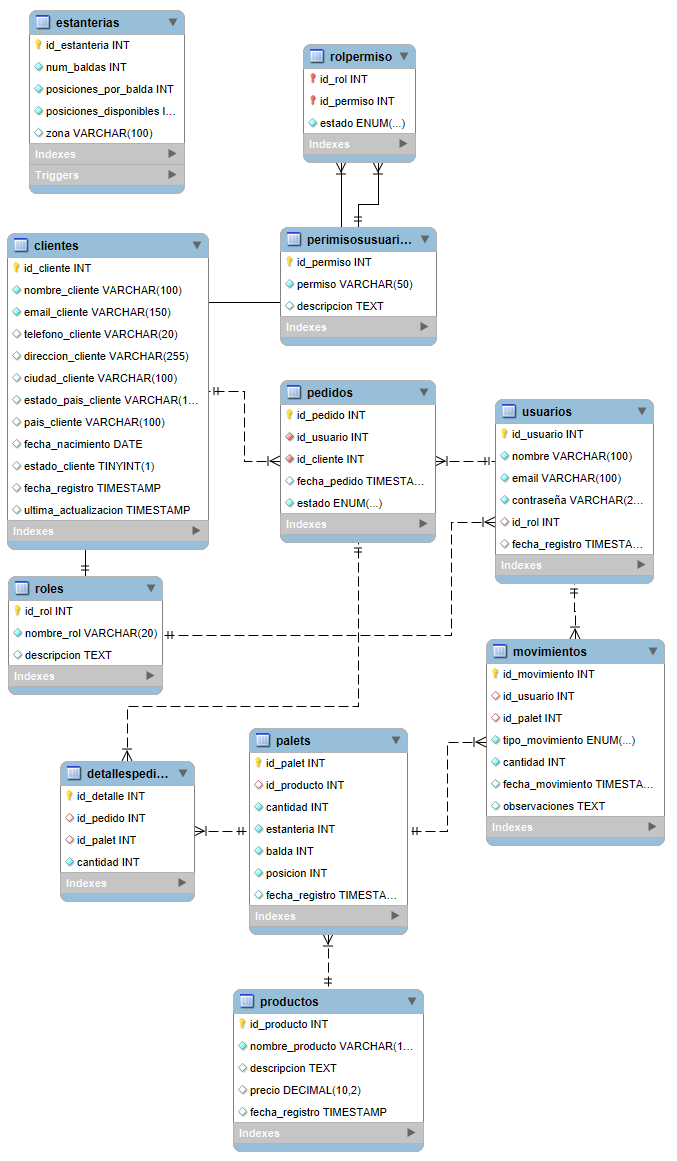
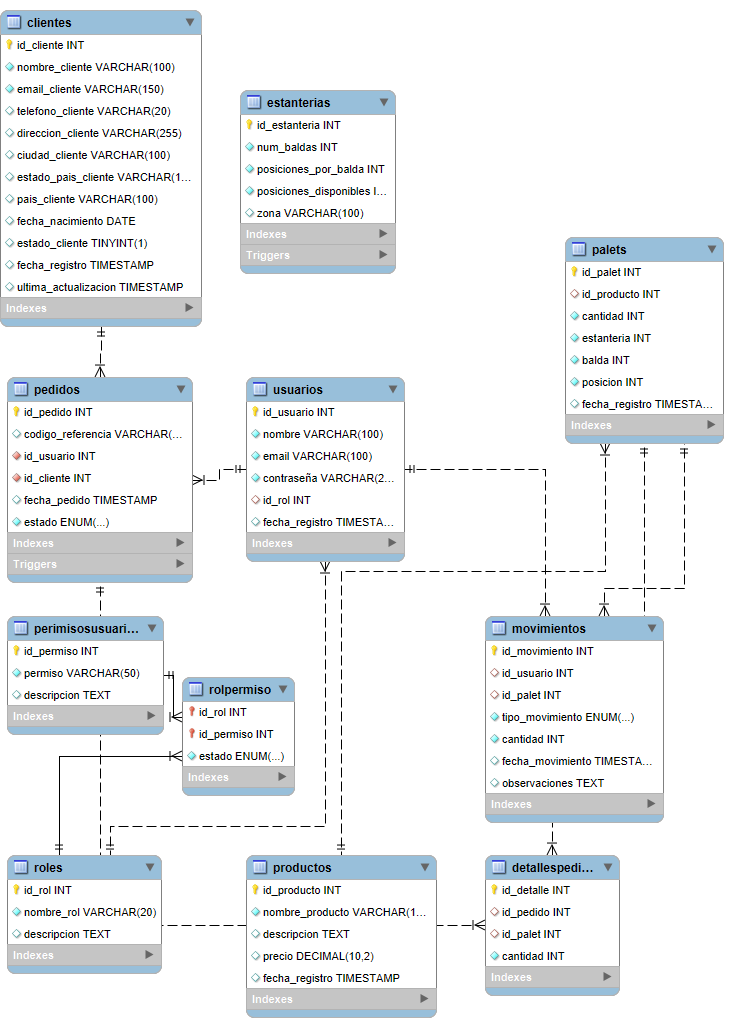
documentacion

diff --git a/TFG-almacen/src/main/java/uvigo/tfgalmacen/database/database-Documentation/databaseStructure.md b/TFG-almacen/src/main/java/uvigo/tfgalmacen/database/database-Documentation/databaseStructure.md
@@ -23,7 +23,7 @@ El DAO es un patrón de diseño estructural que se utiliza en el desarrollo de s
 Interfaz DAO: Define los métodos de acceso a los datos (por ejemplo, `crear()`, `leer()`, `actualizar()`, `eliminar()`).
 Implementación del DAO: Esta clase implementa los métodos definidos en la interfaz DAO y contiene la lógica de acceso a los datos (como consultas SQL o llamadas a una API).
 
-#### Ejemplo
+#### 📚 EJEMPLO:
 
 Supongamos que tienes una base de datos con una tabla `Usuario`. Podrías tener una interfaz `UsuarioDAO` con métodos como:
 
@@ -76,7 +76,8 @@ private static final String URL = "jdbc:mysql://localhost:3306/tfg_almacenDB";
 ```
 
 - **Descripción**: Dirección de la base de datos en MySQL.
-- **Ejemplo**: Cambiar `localhost` o `3306` si la base de datos está en un host remoto o en un puerto diferente.
+
+⚠ **Cambiar** `localhost` o `3306` si la base de datos está en un host remoto o en un puerto diferente.
 
 ### 2.2 Usuario
 
@@ -115,10 +116,18 @@ public static Connection connect() throws SQLException
   2. Establece la conexión con la base de datos utilizando `DriverManager.getConnection`.
   3. Imprime un mensaje de éxito o lanza excepciones en caso de error.
 
-#### Ejemplo de Uso
+#### 📚 EJEMPLO:
 
 ```java
-Connection conn = DatabaseConnection.connect();
+// Establecemos una conexión a la base de datos.
+
+Connection connection_database = DatabaseConnection.connect();
+
+// Ahora tenemos un objeto llamado 'connection_database' con el cual podemos
+// interactuar con la base de datos
+
+// Crear un objeto Statement para ejecutar consultas SQL
+Statement statement = connection_database.createStatement();
 ```
 
 ---
@@ -140,7 +149,7 @@ public static void close(Connection connection)
   2. Cierra la conexión utilizando el método `close()` del objeto `Connection`.
   3. Imprime un mensaje indicando el cierre exitoso o un mensaje de error en caso contrario.
 
-#### Ejemplo de Uso
+#### 📚 EJEMPLO:
 
 ```java
 /* ejemplo
@@ -259,6 +268,8 @@ public static void createUser(Connection connection, String nombre, String email
 - Imprime un mensaje de éxito ("Usuario creado exitosamente.") a la salida estándar si el usuario se crea correctamente.
 - Lanza una excepción `SQLException` si ocurre un error durante la operación de la base de datos.
 
+#### 📚 EJEMPLO:
+
 ```java
 // Ejemplo: Dada la conexion a la base de datos 'connection' creamos un nuevo usuario donde
 // nombre = "Juan Pérez"; email = "juan@example.com"; contraseña = "password123", id_rol = 1 (sysAdmin)
@@ -284,6 +295,8 @@ public static void readUsers(Connection connection)
 - Retorno: No retorna nada (void).
 - Imprime una cadena formateada que contiene información del usuario (ID, nombre, email, ID del rol y fecha de registro) por cada usuario encontrado en la base de datos.
 - Lanza una excepción `SQLException` si ocurre un error durante la operación de la base de datos.
+
+#### 📚 EJEMPLO:
 
 ```java
 // Ejemplo: Dada la conexion a la base de datos 'connection' leemos todos los usuarios de la base de datos
@@ -315,6 +328,8 @@ public static void updateUser(Connection connection, int id_usuario, String nomb
 - Imprime un mensaje de éxito ("Usuario actualizado exitosamente.") a la salida estándar si el usuario se actualiza correctamente.
 - Lanza una excepción `SQLException` si ocurre un error durante la operación de la base de datos.
 
+#### 📚 EJEMPLO:
+
 ```java
 // Ejemplo: Dada la conexion a la base de datos 'connection' actualizamos un usuario de la base de datos donde
 // id_usuario = 1, nombre = "Juan Pérez", email = "juan.perez@example.com", contraseña = "newpassword123", id_rol = 2
@@ -341,6 +356,8 @@ public static void deleteUser(Connection connection, int id_usuario)
 - Retorno: No retorna nada (void).
 - Imprime un mensaje de éxito ("Usuario eliminado exitosamente.") a la salida estándar si el usuario se elimina correctamente.
 - Lanza una excepción `SQLException` si ocurre un error durante la operación de la base de datos.
+
+#### 📚 EJEMPLO:
 
 ```java
 // Ejemplo: Dada la conexion a la base de datos 'connection' actualizamos un usuario de la base de datos donde
@@ -381,6 +398,8 @@ public static void createProducto(Connection connection, String nombre, String d
 - Imprime un mensaje de éxito ("Producto creado exitosamente.") a la salida estándar si el producto se crea correctamente.
 - Lanza una excepción `SQLException` si ocurre un error durante la operación de la base de datos.
 
+#### 📚 EJEMPLO:
+
 ```java
 // Ejemplo: Dada la conexion a la base de datos 'connection' creamos un nuevo producto en la base de datos donde
 // nombre = "Laptop", descripcion = "Laptop de 15 pulgadas", precio = 1200.00
@@ -406,6 +425,8 @@ public static void readProductos(Connection connection)
 - Retorno: No retorna nada (void).
 - Imprime una cadena formateada que contiene información del producto (ID, nombre, descripción y precio) por cada producto encontrado en la base de datos.
 - Lanza una excepción `SQLException` si ocurre un error durante la operación de la base de datos.
+
+#### 📚 EJEMPLO:
 
 ```java
 // Ejemplo: Dada la conexion a la base de datos 'connection' leemos todos los productos de la base de datos
@@ -437,6 +458,8 @@ public static void updateProducto(Connection connection, int id_producto, String
 - Imprime un mensaje de éxito ("Producto actualizado exitosamente.") a la salida estándar si el producto se actualiza correctamente.
 - Lanza una excepción `SQLException` si ocurre un error durante la operación de la base de datos.
 
+#### 📚 EJEMPLO:
+
 ```java
 // Ejemplo: Dada la conexion a la base de datos 'connection' actualizamos un producto de la base de datos donde
 // id_producto = 1, nombre = "Laptop", descripcion = "Laptop de 17 pulgadas", precio = 1300.00
@@ -463,6 +486,8 @@ public static void deleteProducto(Connection connection, int id_producto)
 - Retorno: No retorna nada (void).
 - Imprime un mensaje de éxito ("Producto eliminado exitosamente.") a la salida estándar si el producto se elimina correctamente.
 - Lanza una excepción `SQLException` si ocurre un error durante la operación de la base de datos.
+
+#### 📚 EJEMPLO:
 
 ```java
 // Ejemplo: Dada la conexion a la base de datos 'connection' borramos un producto de la base de datos donde
@@ -502,6 +527,8 @@ public static void createPedido(Connection connection, int id_usuario, String es
 - Imprime un mensaje de éxito ("Pedido creado exitosamente.") a la salida estándar si el pedido se crea correctamente.
 - Lanza una excepción `SQLException` si ocurre un error durante la operación de la base de datos.
 
+#### 📚 EJEMPLO:
+
 ```java
 // Ejemplo: Dada la conexion a la base de datos 'connection' creamos un nuevo pedido en la base de datos donde
 // id_usuario = 1, estado = "Pendiente"
@@ -527,6 +554,8 @@ public static void readPedidos(Connection connection)
 - Retorno: No retorna nada (void).
 - Imprime una cadena formateada que contiene información del pedido (ID, ID del usuario, estado) por cada pedido encontrado en la base de datos.
 - Lanza una excepción `SQLException` si ocurre un error durante la operación de la base de datos.
+
+#### 📚 EJEMPLO:
 
 ```java
 // Ejemplo: Dada la conexion a la base de datos 'connection' leemos todos los pedidos de la base de datos
@@ -567,6 +596,8 @@ public static void createPalet(Connection connection, int id_producto, int canti
 - Imprime un mensaje de éxito ("Palet creado exitosamente.") a la salida estándar si el palet se crea correctamente.
 - Lanza una excepción `SQLException` si ocurre un error durante la operación de la base de datos.
 
+#### 📚 EJEMPLO:
+
 ```java
 // Ejemplo: Dada la conexion a la base de datos 'connection' creamos un palet en la base de datos donde
 // id_producto = 1, cantidad = 100, ubicacion = "A1"
@@ -592,6 +623,8 @@ public static void readPalets(Connection connection)
 - Retorno: No retorna nada (void).
 - Imprime una cadena formateada que contiene información del palet (ID, ID del producto, cantidad, ubicación) por cada palet encontrado en la base de datos.
 - Lanza una excepción `SQLException` si ocurre un error durante la operación de la base de datos.
+
+#### 📚 EJEMPLO:
 
 ```java
 // Ejemplo: Dada la conexion a la base de datos 'connection' leemos todos los palet de la base de datos
@@ -623,6 +656,8 @@ public static void updatePalet(Connection connection, int id_palet, int id_produ
 - Imprime un mensaje de éxito ("Palet actualizado exitosamente.") a la salida estándar si el palet se actualiza correctamente.
 - Lanza una excepción `SQLException` si ocurre un error durante la operación de la base de datos.
 
+#### 📚 EJEMPLO:
+
 ```java
 // Ejemplo: Dada la conexion a la base de datos 'connection' actualizamos un palet de la base de datos donde
 // id_palet = 1, id_producto = 1, cantidad = 120, ubicacion = "A2"
@@ -649,6 +684,8 @@ public static void deletePalet(Connection connection, int id_palet)
 - Retorno: No retorna nada (void).
 - Imprime un mensaje de éxito ("Palet eliminado exitosamente.") a la salida estándar si el palet se elimina correctamente.
 - Lanza una excepción `SQLException` si ocurre un error durante la operación de la base de datos.
+
+#### 📚 EJEMPLO:
 
 ```java
 // Ejemplo: Dada la conexion a la base de datos 'connection' borramos un palet de la base de datos donde
@@ -691,6 +728,8 @@ public static void createMovimiento(Connection connection, int id_usuario, int i
 - Imprime un mensaje de éxito ("Movimiento creado exitosamente.") a la salida estándar si el movimiento se crea correctamente.
 - Lanza una excepción `SQLException` si ocurre un error durante la operación de la base de datos.
 
+#### 📚 EJEMPLO:
+
 ```java
 // Ejemplo: Dada la conexion a la base de datos 'connection' un nuevo movimiento en la base de datos donde
 // id_usuario = 1, id_palet = 1, tipo_movimiento = "Entrada", cantidad = 50, observaciones = "Movimiento inicial de stock"
@@ -716,6 +755,8 @@ public static void readMovimientos(Connection connection)
 - Retorno: No retorna nada (void).
 - Imprime una cadena formateada que contiene información del movimiento (ID, ID de usuario, ID de palet, tipo de movimiento, cantidad, observaciones) por cada movimiento encontrado en la base de datos.
 - Lanza una excepción `SQLException` si ocurre un error durante la operación de la base de datos.
+
+#### 📚 EJEMPLO:
 
 ```java
 // Ejemplo: Dada la conexion a la base de datos 'connection' leemos todos los movimientos de la base de datos
@@ -755,6 +796,8 @@ public static void createDetallePedido(Connection connection, int id_pedido, int
 - Retorno: No retorna nada (void).
 - Imprime un mensaje de éxito ("Detalle de pedido creado exitosamente.") a la salida estándar si el detalle de pedido se crea correctamente.
 - Lanza una excepción `SQLException` si ocurre un error durante la operación de la base de datos.
+
+#### 📚 EJEMPLO:
 
 ```java
 // Ejemplo: Dada la conexion a la base de datos 'connection' creamos un nuevo DetallePedido en la base de datos donde

diff --git a/Memoria-Documentacion-del-proyecto/Como-funcionan-los-pedidos.md b/Memoria-Documentacion-del-proyecto/Como-funcionan-los-pedidos.md
@@ -1,6 +1,6 @@
 # ¿Cómo funciona el sistema de pedidos?
 
-Cada pedido tiene asociado el nombre del cliente que realiza el pedido, un número de referencia que identifica el pedido, asi como el usuasrio que crea el pedidio (este usuario puede ser tanto un empleado que tenga el rol adecuado como el propio cliente)
+Cada pedido tiene asociado el **nombre del cliente** que realiza el pedido, un **número de referencia** que identifica el pedido, asi como el **usuario que crea el pedidio**
 
 los pedidios los crea un cliente y estos llegan al departamento de ventas y pedidos. Este departamento es quien pasas el pedido al sistema de gestión del almacen
 
@@ -10,7 +10,7 @@ Este documento describe el flujo de un pedido desde su inicio hasta su finalizac
 
 ### 1. **Inicio del Pedido: Petición de nuevo pedido**
 
-El proceso comienza cuando un usuario decide insertar un pedido en el sistema.
+El proceso comienza cuando un usuario decide insertar un pedido en el sistema. En el departamento de 'Ventas y Pedidos' los administrativos (rol de 'Administración') generan el pedido
 
 ### 2. **¿Cliente Registrado?**
 
@@ -22,7 +22,7 @@ Si el cliente está registrado, puede proceder a seleccionar los productos.
 
 #### 2.2. **No: Registrar Cliente**
 
-Si el cliente no está registrado, se realiza el proceso automático de registro del cliente
+Si el cliente no está registrado, se realiza el proceso de registro del cliente
 
 ### 3. **Generar Pedido**
 
@@ -66,11 +66,11 @@ El proceso del pedido ha finalizado exitosamente.
 
 ---
 
-## Diagrama de Flujo del Proceso de Pedido
+### Diagrama de Flujo del Proceso de Pedido
 
 ```mermaid
   flowchart TD
-    A[Petición de nuevo pedido] --> B{¿Cliente Registrado?}
+    A[Nuevo Pedido] --> B{¿Cliente Registrado?}
     B -- Sí --> E[Generar Pedido]
     B -- No --> D[Registrar Cliente]
     D -- Registro del cliente cancelado --> B
@@ -87,11 +87,12 @@ El proceso del pedido ha finalizado exitosamente.
     L --> M[Estado del Pedido: Completado]
     M --> N[Fin del Pedido]
 
+    style A fill:#bb21b6,stroke:#333,stroke-width:2px, color:#FFF, ,rx:500, ry:500
     style J fill:#947c1f,stroke:#333,stroke-width:2px, color:#FFF, ,rx:20, ry:20
     style F fill:#947c1f,stroke:#333,stroke-width:2px, color:#FFF, ,rx:20, ry:20
     style H fill:#947c1f,stroke:#333,stroke-width:2px, color:#FFF, ,rx:20, ry:20
     style M fill:#947c1f,stroke:#333,stroke-width:2px, color:#FFF, ,rx:20, ry:20
-
+    style N fill:#bb21b6,stroke:#333,stroke-width:2px, color:#FFF, ,rx:500, ry:500
 ```
 
 ## Código de referencia
@@ -104,8 +105,14 @@ Los códigos de referencia se **generan automaticamente** y presentan el siguien
   </code>
 </div>
 
-1. **PED**: Identificador del tipo de registro (pedido).
-2. **YYYYMMDD**: Año, mes y día del pedido (por ejemplo, 20241121 para el 21 de noviembre de 2024).
-3. **HHHHH**: Código secuencial único en hexadecimal, donde cada nuevo pedido del día tiene su número consecutivo convertido a hexadecimal.
+1. **`PED`**: **{Prefijo}** Identificador del tipo de registro (pedido).
+2. **`YYYYMMDD`**: Año, mes y día del registro del pedido (por ejemplo, 20241121 para el 21 de noviembre de 2024).
+3. **`HHHHHH`**: Código secuencial único en hexadecimal, donde cada nuevo pedido del día tiene su número consecutivo convertido a hexadecimal.
 
-**Ejemplo:** PED-20241121-03E8
+Dado que el código secuencial tiene seis dígitos en formato hexadecimal en un dia podemos hacer la siguiente cantidad de pedidos:
+
+$$
+16^6 = 16,777,216 \ \text{pedidos/día}
+$$
+
+📚 **Ejemplo:** PED-20241121-0003E8 (En ese día se hicieron 1000 pedidos)

diff --git a/Presentacion-Proyecto/planteamiento_proyecto.md b/Presentacion-Proyecto/planteamiento_proyecto.md
@@ -47,7 +47,7 @@ Para desarrollar un proyecto de gestión de almacenes completo, es esencial incl
  </div>
 </div>
 
-NOTA: Para informacion sobre estos modos de funcionamiento ver la pagina 13 de `/Documentacion_complementaria/'El almacén en la cadena logística.pdf'`
+💡**NOTA:** Para informacion sobre estos modos de funcionamiento ver la pagina 13 de `/Documentacion_complementaria/'El almacén en la cadena logística.pdf'`
 
 ### Funciones del almacen
 
@@ -956,9 +956,9 @@ cuando el usuario desea hacer una determinada acción en la aplicación, se debe
           <td>✅</td>
           <td>✅</td>
           <td>❌</td>
-          <td style="color: #e89323">Ver</td>
+          <td style="color: #e89323">Ver </td>
           <td>❌</td>
-          <td>✅</td>
+          <td>✅ <text style="color: #2399e8">(Restringido)</text></td>
       </tr>
       <tr>
           <td>Generación de Reportes (inventario, ventas)</td>
@@ -1013,7 +1013,7 @@ cuando el usuario desea hacer una determinada acción en la aplicación, se debe
           <td>❌</td>
           <td>✅</td>
           <td>❌</td>
-          <td style="color: #e89323">Ver</td>
+          <td style="color: #e89323">Ver <text style="color: #2399e8">(Restringido)</text></td>
       </tr>
       <tr>
           <td>Gestión de Incidencias</td>
@@ -1029,3 +1029,5 @@ cuando el usuario desea hacer una determinada acción en la aplicación, se debe
   </tbody>
 </table>
 </div>
+
+💡**NOTA:** Los clientes tienen permisos restringidos, es decir, solo pueden ver y gestionar sus pedidos, no pueden interacturar con los pedidios de los demas clientes.

diff --git a/README.md b/README.md
@@ -6,7 +6,7 @@ TFG de ingeniería en electrónica industrial y automática de la Universidad de
 
 Este fichero es un boceto de cómo será el proyecto, sin embargo, con el desarrollo del proyecto habrán variaciones. Es simplemente una guía orientativa
 
-⚠ !! SE RECOMIENDA VER EL FICHERO EN UN VISUALIZADOR DE `MARKDOWN` QUE ACEPTE `HTML`
+⚠ !! SE RECOMIENDA VER EL FICHERO EN UN VISUALIZADOR DE `MARKDOWN` QUE ACEPTE `HTML` ¡¡
 
 ## Código Fuente Java
 
